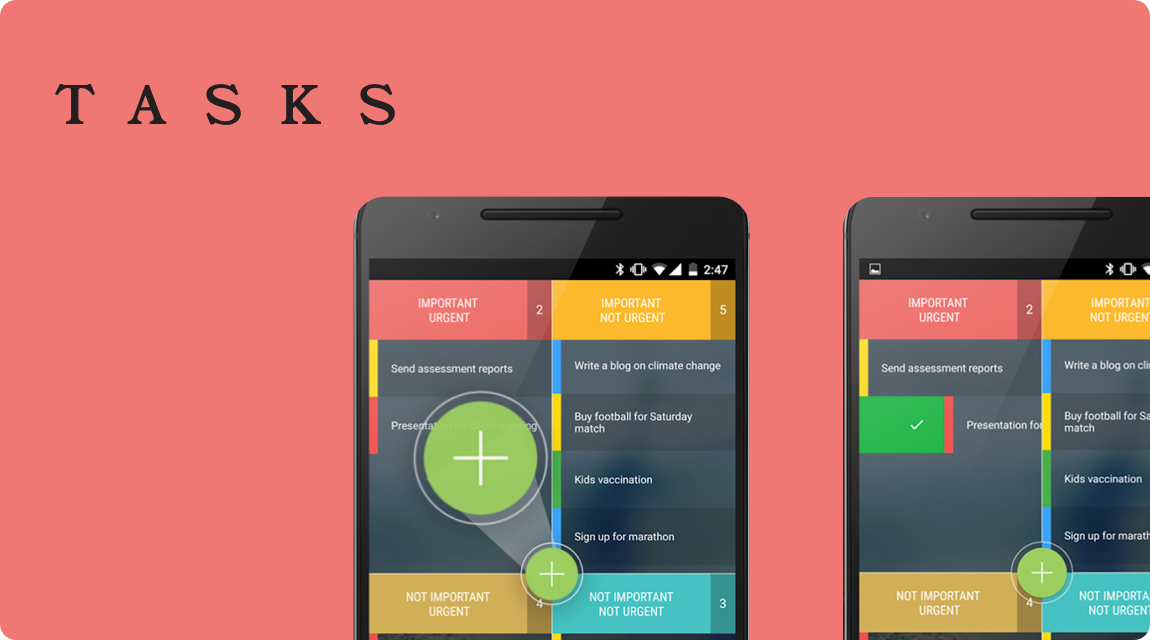
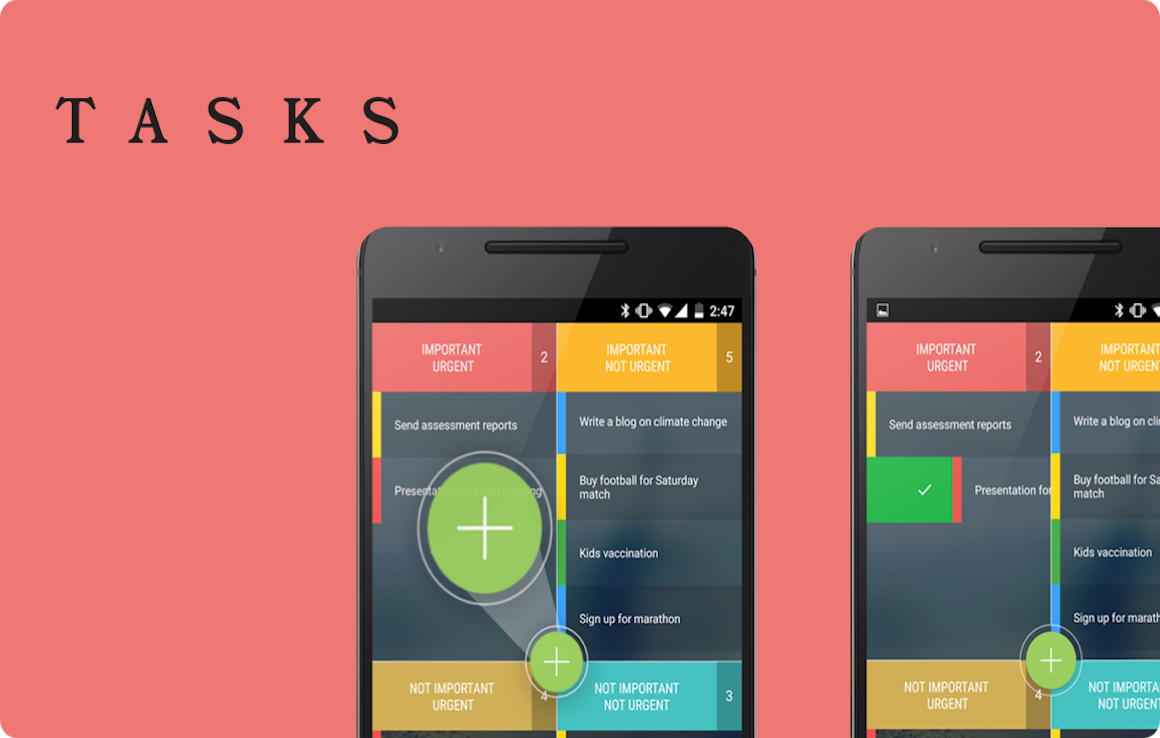
refactor: aurora story card images

diff --git a/src/gatsby-types.d.ts b/src/gatsby-types.d.ts
@@ -16364,7 +16364,7 @@ type AgencyPortfolioQuery = { readonly en: { readonly id: string, readonly Secti
 type AuroraPageQueryVariables = Exact<{ [key: string]: never; }>;
 
 
-type AuroraPageQuery = { readonly en: { readonly WorkingSectionTitle: string | null, readonly FeatureSectionTitle: string | null, readonly StorySectionTitle: string | null, readonly HeroBanner: { readonly id: string, readonly withLogo: boolean | null, readonly isImage: boolean | null, readonly Title: string | null, readonly SubText: string | null, readonly Description: { readonly data: { readonly childMarkdownRemark: { readonly html: string | null } | null } | null } | null, readonly Img: { readonly alternativeText: string | null, readonly localFile: { readonly url: string | null } | null } | null } | null, readonly WorkingImg: { readonly alternativeText: string | null, readonly localFile: { readonly url: string | null } | null } | null, readonly AuroraVideo: { readonly alternativeText: string | null, readonly localFile: { readonly url: string | null } | null } | null, readonly VideoData: { readonly Title: string | null, readonly KeyPoints: ReadonlyArray<{ readonly ListItem: string | null } | null> | null } | null, readonly FeatureCards: ReadonlyArray<{ readonly Heading: string | null, readonly SubText: string | null, readonly Img: { readonly alternativeText: string | null, readonly localFile: { readonly childImageSharp: { readonly gatsbyImageData: import('gatsby-plugin-image').IGatsbyImageData } | null } | null } | null } | null> | null, readonly StoryCards: ReadonlyArray<{ readonly Title: string | null, readonly Description: { readonly data: { readonly Description: string | null } | null } | null, readonly Img: { readonly alternativeText: string | null, readonly localFile: { readonly url: string | null } | null } | null } | null> | null } | null };
+type AuroraPageQuery = { readonly en: { readonly WorkingSectionTitle: string | null, readonly FeatureSectionTitle: string | null, readonly StorySectionTitle: string | null, readonly HeroBanner: { readonly id: string, readonly withLogo: boolean | null, readonly isImage: boolean | null, readonly Title: string | null, readonly SubText: string | null, readonly Description: { readonly data: { readonly childMarkdownRemark: { readonly html: string | null } | null } | null } | null, readonly Img: { readonly alternativeText: string | null, readonly localFile: { readonly url: string | null } | null } | null } | null, readonly WorkingImg: { readonly alternativeText: string | null, readonly caption: string | null, readonly localFile: { readonly childImageSharp: { readonly gatsbyImageData: import('gatsby-plugin-image').IGatsbyImageData } | null } | null } | null, readonly AuroraVideo: { readonly alternativeText: string | null, readonly localFile: { readonly url: string | null } | null } | null, readonly VideoData: { readonly Title: string | null, readonly KeyPoints: ReadonlyArray<{ readonly ListItem: string | null } | null> | null } | null, readonly FeatureCards: ReadonlyArray<{ readonly Heading: string | null, readonly SubText: string | null, readonly Img: { readonly alternativeText: string | null, readonly caption: string | null, readonly localFile: { readonly childImageSharp: { readonly gatsbyImageData: import('gatsby-plugin-image').IGatsbyImageData } | null } | null } | null } | null> | null, readonly StoryCards: ReadonlyArray<{ readonly Title: string | null, readonly Description: { readonly data: { readonly Description: string | null } | null } | null, readonly Img: { readonly alternativeText: string | null, readonly caption: string | null, readonly localFile: { readonly childImageSharp: { readonly gatsbyImageData: import('gatsby-plugin-image').IGatsbyImageData } | null } | null } | null } | null> | null } | null };
 
 type CustomerExperiencePackPageQueryVariables = Exact<{ [key: string]: never; }>;
 
@@ -16391,7 +16391,7 @@ type DesignPortfolioQuery = { readonly en: { readonly id: string, readonly Secti
 type DesignPortfolioListingQueryVariables = Exact<{ [key: string]: never; }>;
 
 
-type DesignPortfolioListingQuery = { readonly en: { readonly SectionOneTitle: string | null, readonly SectionTwoTitle: string | null, readonly DynamicButtonText: string | null, readonly HeroSection: { readonly id: string, readonly Title: string | null, readonly Description: string | null, readonly Image: { readonly localFile: { readonly url: string | null } | null } | null } | null, readonly CTA: { readonly id: string, readonly Title: string | null, readonly Description: string | null, readonly CTAText: string | null, readonly CTALink: string | null } | null } | null, readonly enDesignPortfolios: { readonly nodes: ReadonlyArray<{ readonly id: string, readonly CTATextForDisplay: string | null, readonly ShowcasePost: boolean | null, readonly Slug: string | null, readonly PortfolioTag: string | null, readonly HeroSection: { readonly id: string, readonly Title: string | null, readonly Description: string | null, readonly Image: { readonly localFile: { readonly childImageSharp: { readonly gatsbyImageData: import('gatsby-plugin-image').IGatsbyImageData } | null } | null } | null } | null }> } };
+type DesignPortfolioListingQuery = { readonly en: { readonly SectionOneTitle: string | null, readonly SectionTwoTitle: string | null, readonly DynamicButtonText: string | null, readonly HeroSection: { readonly id: string, readonly Title: string | null, readonly Description: string | null, readonly Image: { readonly localFile: { readonly url: string | null } | null } | null } | null, readonly CTA: { readonly id: string, readonly Title: string | null, readonly Description: string | null, readonly CTAText: string | null, readonly CTALink: string | null } | null } | null, readonly enAgencyPortfolios: { readonly nodes: ReadonlyArray<{ readonly id: string, readonly CTATextForDisplay: string | null, readonly ShowcasePost: boolean | null, readonly Slug: string | null, readonly PortfolioTag: string | null, readonly HeroSection: { readonly id: string, readonly Title: string | null, readonly Description: string | null, readonly Image: { readonly localFile: { readonly childImageSharp: { readonly gatsbyImageData: import('gatsby-plugin-image').IGatsbyImageData } | null } | null } | null } | null }> } };
 
 type GatsbyImageSharpFixedFragment = { readonly base64: string | null, readonly width: number, readonly height: number, readonly src: string, readonly srcSet: string };
 

diff --git a/src/layouts/aurora/components/Stories.tsx b/src/layouts/aurora/components/Stories.tsx
@@ -1,3 +1,5 @@
+import { GatsbyImage, getImage } from "gatsby-plugin-image";
+
 import { PrimaryTitle } from "../../../components/titles/PrimaryTitle";
 import { storyImg } from "../Aurora.module.css";
 
@@ -18,12 +20,18 @@ export const Stories = ({ title, cardsData }: StoriesProps) => {
         <div className={`row`}>
           {cardsData.map((item, index) => (
             <div key={index} className={`col-lg-6 mt-5`}>
-              <div className={`d-flex justify-content-center`}>
-                <img
-                  src={item?.Img?.localFile?.url}
+              <div
+                className={`d-flex justify-content-center justify-content-sm-center justify-content-md-center justify-content-lg-start`}
+              >
+                <GatsbyImage
+                  image={
+                    getImage(item?.Img?.localFile)
+                      ? getImage(item?.Img?.localFile)
+                      : item?.Img?.localFile
+                  }
                   alt={item?.Img?.alternativeText}
-                  title={item?.Img?.alternativeText}
-                  className={`img-fluid ${storyImg}`}
+                  title={item?.Img?.title}
+                  className={`img-fluid`}
                 />
               </div>
               <h2 className={`mt-3 pt-3`}>{item?.Title}</h2>

diff --git a/src/pages/aurora.tsx b/src/pages/aurora.tsx
@@ -130,7 +130,7 @@ const AuroraPage: React.FC<PageProps> = ({ data }: AuroraPageProps) => {
       />
       <HowItWorks
         heading={data[currentLang]?.WorkingSectionTitle}
-        imgSrc={data[currentLang]?.WorkingImg?.localFile?.url}
+        imgSrc={data[currentLang]?.WorkingImg}
       />
       <VideoSection
         heading={data[currentLang]?.VideoData?.Title}
@@ -177,9 +177,12 @@ export const query = graphql`
       WorkingSectionTitle
       WorkingImg {
         localFile {
-          url
+          childImageSharp {
+            gatsbyImageData(formats: PNG)
+          }
         }
         alternativeText
+        caption
       }
       AuroraVideo {
         localFile {
@@ -204,6 +207,7 @@ export const query = graphql`
             }
           }
           alternativeText
+          caption
         }
       }
       StorySectionTitle
@@ -216,9 +220,12 @@ export const query = graphql`
         }
         Img {
           localFile {
-            url
+            childImageSharp {
+              gatsbyImageData(formats: PNG, height: 326)
+            }
           }
           alternativeText
+          caption
         }
       }
     }

diff --git a/src/layouts/aurora/components/HowItWorks.tsx b/src/layouts/aurora/components/HowItWorks.tsx
@@ -1,3 +1,5 @@
+import { GatsbyImage, getImage } from "gatsby-plugin-image";
+
 import { PrimaryTitle } from "../../../components/titles/PrimaryTitle";
 
 interface HowItWorksProps {
@@ -15,10 +17,14 @@ export const HowItWorks = ({ heading, imgSrc }: HowItWorksProps) => {
           <PrimaryTitle title={heading} variant="infoSectionH2" />
         </div>
         <div className={`pt-5`}>
-          <img
-            src={imgSrc}
-            alt={heading}
-            title={heading}
+          <GatsbyImage
+            image={
+              getImage(imgSrc?.localFile)
+                ? getImage(imgSrc?.localFile)
+                : imgSrc.localFile
+            }
+            alt={imgSrc?.alternativeText}
+            title={imgSrc?.caption}
             className={`img-fluid`}
           />
         </div>
